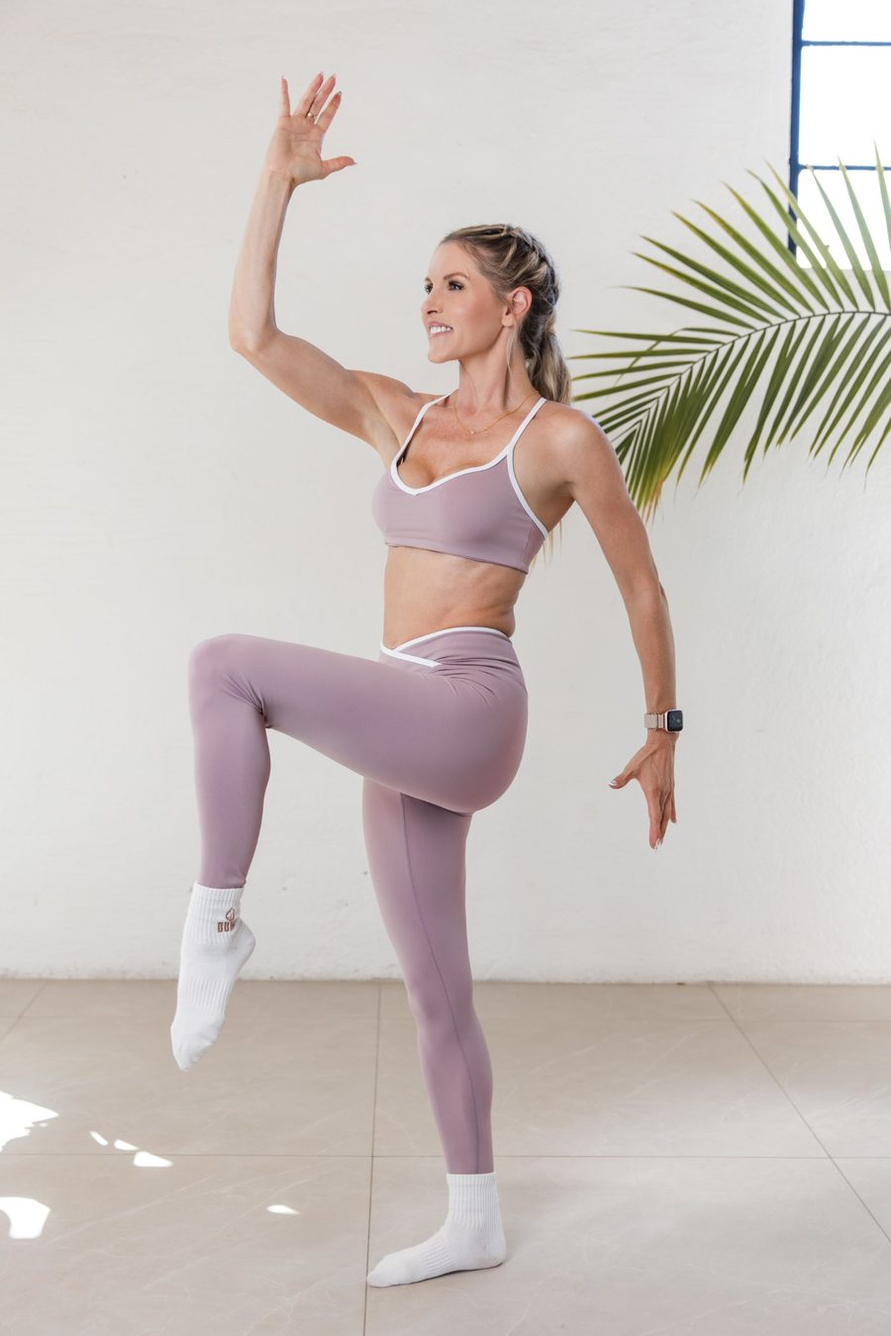
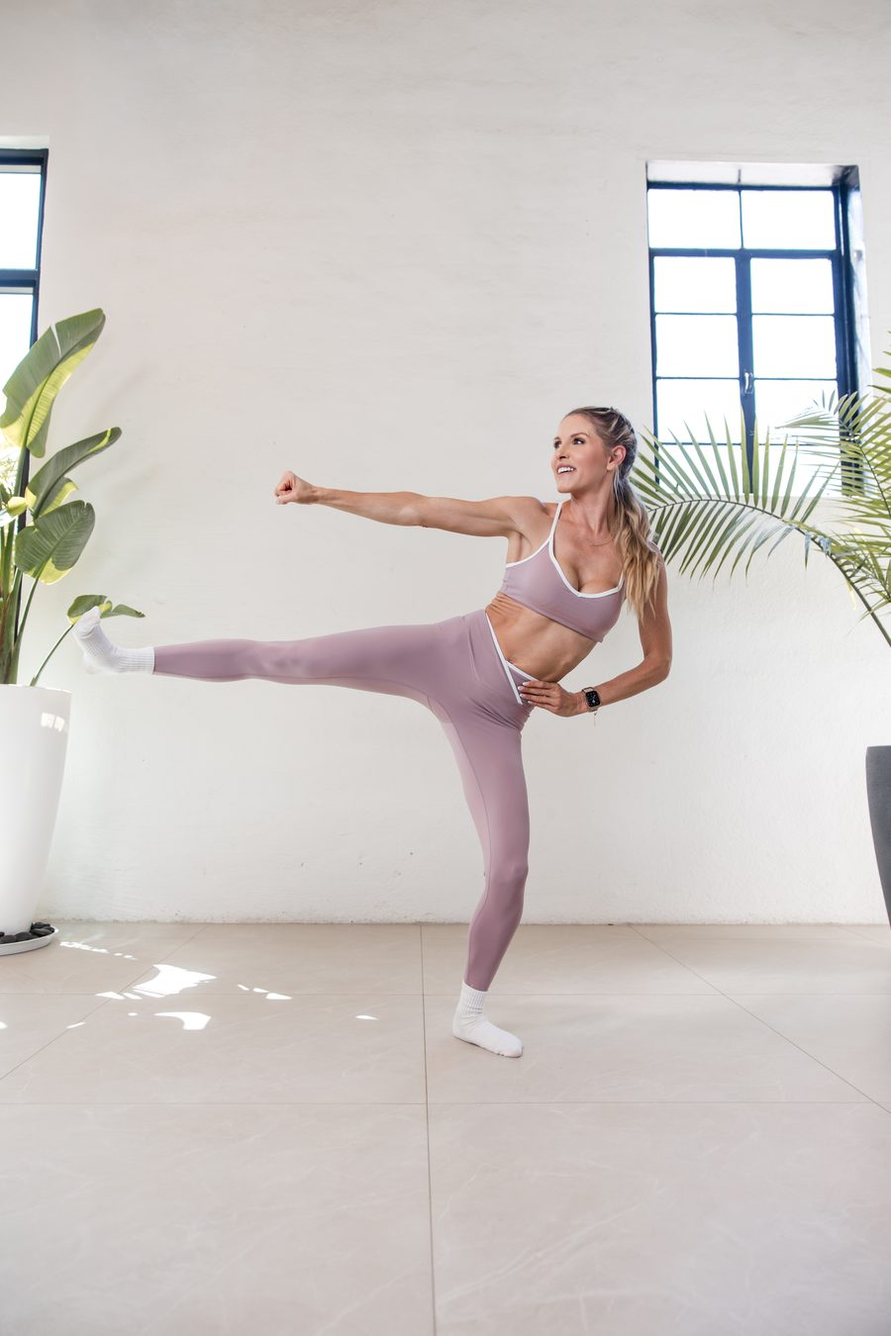
BRN-058 v6: Rebecca's new photos on the site - Hero A IMG_5963, Move IMG_6046 (kick), Meet 1 IMG_5839, Meet 2 IMG_6173; Hero B page (IMG_5881)
Photos only: same filenames and responsive widths, downscaled crops of the Canon originals (never upscaled),
face-safe at 1280 and 390. Alt text updated; ?v=7 on those image URLs so phones don't show cached old ones.
index-hero-b.html = index.html with the hero swapped to img/hero-b/ (IMG_5881) so she can compare.
Previous version kept on branch backup/v6-before-her-photos-20261015 (270ef74).

diff --git a/v6/index-hero-b.html b/v6/index-hero-b.html
@@ -1,0 +1,214 @@
+<!doctype html>
+<html lang="en">
+<head>
+<meta charset="utf-8">
+<meta name="viewport" content="width=device-width,initial-scale=1">
+<meta name="robots" content="noindex,nofollow">
+<title>Your Strongest Self Starts Here | BURN by Rebecca Louise</title>
+<meta name="description" content="Train with Rebecca Louise. Follow-along workouts, monthly challenges, recipes and mindset in one app.">
+<link rel="preconnect" href="https://fonts.googleapis.com"><link rel="preconnect" href="https://fonts.gstatic.com" crossorigin><link href="https://fonts.googleapis.com/css2?family=Cormorant+Garamond:ital,wght@0,500;0,600;1,500&family=Inter:wght@300;400;500;600&display=swap" rel="stylesheet">
+<link rel="stylesheet" href="assets/site.css?v=61">
+</head>
+<body data-page="home">
+<div class="preview-bar"><span>Design preview.</span><a href="journey.html">Preview the journey: Join Now → pay → welcome → app</a></div>
+<header class="site">
+  <div class="wrap">
+    <a class="logo" href="index.html" aria-label="BURN by Rebecca Louise, home"><img src="img/burn-logo.png" alt="BURN by Rebecca Louise" height="22"></a>
+    <nav class="main" aria-label="Main"><a href="index.html" class="on" aria-current="page">Home</a><a href="workouts.html">Workouts</a><a href="membership.html">Memberships</a><a href="about.html">About</a></nav>
+    <div class="hdr-right">
+      <a class="member-link top" href="download.html">Already a member? Open the app</a>
+      <a class="btn sm" href="join.html" data-chooser data-join="nav">Join Now</a>
+      <button class="burger" aria-label="Menu" aria-expanded="false"><span></span></button>
+    </div>
+  </div>
+  <div class="mnav"><a href="index.html" class="on" aria-current="page">Home</a><a href="workouts.html">Workouts</a><a href="membership.html">Memberships</a><a href="about.html">About</a><a class="member-link" href="download.html">Already a member? Open the app</a></div>
+</header>
+<main>
+<!-- 1 HERO: Rebecca (purple set) first -->
+<section class="hero" id="top" aria-label="BURN by Rebecca Louise">
+  <picture><source media="(max-width:640px)" srcset="img/hero-b/m-800.jpg?v=7 800w, img/hero-b/m-1200.jpg?v=7 1200w, img/hero-b/m-1800.jpg?v=7 1800w" sizes="100vw"><img class="hero-img" src="img/hero-b/d-1200.jpg?v=7" srcset="img/hero-b/d-1200.jpg?v=7 1200w, img/hero-b/d-1800.jpg?v=7 1800w, img/hero-b/d-2400.jpg?v=7 2400w" sizes="(max-width:900px) 64vw, 62vw" alt="Rebecca Louise in her purple set, kneeling and smiling with her phone in her hand" fetchpriority="high"></picture>
+  <div class="wrap"><div class="copy">
+    <div class="kick">BURN by Rebecca Louise</div>
+    <h1>Your Strongest Self Starts Here.</h1>
+    <p class="lede">Train with me in one app: follow-along workouts, a new challenge every month, recipes and mindset. Feel stronger, build confidence and make it last.</p>
+    <div class="ctas"><a class="btn" href="join.html" data-chooser data-join="hero" data-sticky-after>Join Now</a><span class="sub-cta"><span data-from>From $7.99 a month</span> &middot; cancel any time</span></div>
+    <button type="button" class="quiz-link" data-quiz-open="hero">Not sure? Take the 30-second quiz &rarr;</button>
+    <div class="proof"><span>Real workouts with Rebecca</span><span>A new challenge every month</span><span>A community that shows up</span></div>
+  </div></div>
+</section>
+
+<!-- 2 INSIDE THE APP (real iPhone screenshots) + BUILD & SCHEDULE -->
+<section class="appstrip" id="inside">
+  <div class="wrap">
+    <div class="sec-head"><div class="kick">Inside the BURN app</div><h2>Your training, in one app</h2></div>
+    <div class="screens"><figure class="screen"><div class="device"><div class="iphone"><span class="hw l1"></span><span class="hw l2"></span><span class="hw l3"></span><span class="hw r1"></span><img loading="lazy" src="img/app/move.jpg" alt="BURN app Move screen on iPhone" width="900" height="1957"></div></div><figcaption><b>Move</b><span>The full library by body part, style and equipment</span></figcaption></figure><figure class="screen"><div class="device"><div class="iphone"><span class="hw l1"></span><span class="hw l2"></span><span class="hw l3"></span><span class="hw r1"></span><img loading="lazy" src="img/app/calendar.jpg" alt="BURN app Your challenge screen on iPhone" width="900" height="1957"></div></div><figcaption><b>Your challenge</b><span>Your month, ticked off day by day</span></figcaption></figure><figure class="screen"><div class="device"><div class="iphone"><span class="hw l1"></span><span class="hw l2"></span><span class="hw l3"></span><span class="hw r1"></span><img loading="lazy" src="img/app/nourish.jpg" alt="BURN app Nourish screen on iPhone" width="900" height="1957"></div></div><figcaption><b>Nourish</b><span>Recipes with diet filters</span></figcaption></figure><figure class="screen"><div class="device"><div class="iphone"><span class="hw l1"></span><span class="hw l2"></span><span class="hw l3"></span><span class="hw r1"></span><img loading="lazy" src="img/app/progress.jpg" alt="BURN app Progress screen on iPhone" width="900" height="1957"></div></div><figcaption><b>Progress</b><span>Your streak, week by week</span></figcaption></figure></div>
+    <div class="planbox" data-planner id="build-your-week">
+      <div>
+        <div class="kick">BURN+ &middot; Build &amp; schedule</div>
+        <h2>Build your workout. Schedule your week.</h2>
+        <p class="lede">Put your own workout together from the library, pick the day and time that suit you, or join a live class instead. Try it:</p>
+      </div>
+      <div>
+        <div class="steps3">
+          <div class="step"><h3>1 &middot; Build your workout</h3><p class="muted step-sub">Pick one or more from the library</p><div class="opts"><button type="button" class="chip on" data-pw data-min="30" aria-pressed="true">Ultimate Lift Heavy <small>30 min</small></button><button type="button" class="chip" data-pw data-min="34" aria-pressed="false">Barre Definition <small>34 min</small></button><button type="button" class="chip" data-pw data-min="32" aria-pressed="false">Full Body Pilates Tone <small>32 min</small></button><button type="button" class="chip" data-pw data-min="36" aria-pressed="false">Best HIIT <small>36 min</small></button><button type="button" class="chip" data-pw data-min="30" aria-pressed="false">Weighted Core Strength <small>30 min</small></button><button type="button" class="chip" data-pw data-min="28" aria-pressed="false">Beautiful State <small>28 min</small></button></div></div>
+          <div class="step"><h3>2 &middot; Pick a day</h3><div class="days"><button type="button" class="chip" data-day="Monday" aria-pressed="false" aria-label="Monday">M</button><button type="button" class="chip" data-day="Tuesday" aria-pressed="false" aria-label="Tuesday">T</button><button type="button" class="chip on" data-day="Wednesday" aria-pressed="true" aria-label="Wednesday">W</button><button type="button" class="chip" data-day="Thursday" aria-pressed="false" aria-label="Thursday">T</button><button type="button" class="chip" data-day="Friday" aria-pressed="false" aria-label="Friday">F</button><button type="button" class="chip" data-day="Saturday" aria-pressed="false" aria-label="Saturday">S</button><button type="button" class="chip" data-day="Sunday" aria-pressed="false" aria-label="Sunday">S</button></div></div>
+          <div class="step"><h3>3 &middot; Pick a time, or join a class</h3><div class="opts"><button type="button" class="chip on" data-time="7:00 am" aria-pressed="true">7:00 am</button><button type="button" class="chip" data-time="12:30 pm" aria-pressed="false">12:30 pm</button><button type="button" class="chip" data-time="6:00 pm" aria-pressed="false">6:00 pm</button><button type="button" class="chip" data-time="class" aria-pressed="false">Join a live class</button></div></div>
+        </div>
+        <div class="plan-out"><div><div class="s">Your week</div><div class="t" data-plan-out aria-live="polite">Wednesday &middot; 7:00 am &middot; Ultimate Lift Heavy &middot; 30 min</div></div><a class="btn" href="join.html?tier=burnplus" data-checkout data-join="build_week" data-tier="burnplus">Join BURN+</a></div>
+      </div>
+    </div>
+  </div>
+</section>
+
+<!-- 3 WHY BURN + MOVE NOURISH THRIVE -->
+<section class="bg-white" id="why">
+  <div class="wrap">
+    <div class="sec-head"><div class="kick">More than a workout app</div><h2>Why BURN? Move. Nourish. Thrive.</h2></div>
+    <div class="pillars">
+      <div class="pillar"><img loading="lazy" src="img/p/move-900.jpg?v=7" srcset="img/p/move-900.jpg?v=7 900w, img/p/move-1400.jpg?v=7 1400w" sizes="(max-width:900px) 100vw, 33vw" alt="Rebecca in her purple set mid-kick, one leg extended to the side" style="object-position:50% 22%"><div class="in"><h3>MOVE</h3><p>Strength, sculpt, Pilates, barre and cardio with me. 40+ programs and a new challenge every month.</p><div class="tierchips"><span>Every membership</span></div></div></div>
+      <div class="pillar"><img loading="lazy" src="img/p/nourish-800.jpg" srcset="img/p/nourish-800.jpg 800w, img/p/nourish-1200.jpg 1200w" sizes="(max-width:900px) 100vw, 33vw" alt="A bowl of greens, boiled eggs, sweetcorn, tomatoes and red cabbage" style="object-position:50% 50%"><div class="in"><h3>NOURISH</h3><p>Recipes with diet filters in every membership. Want your own plan? Add one, built with a coach.</p><div class="tierchips"><span>Recipes: every membership</span><a href="#nutrition">Nutrition plan: add-on</a></div></div></div>
+      <div class="pillar"><img loading="lazy" src="img/p/thrive-800.jpg" srcset="img/p/thrive-800.jpg 800w, img/p/thrive-1200.jpg 1200w" sizes="(max-width:900px) 100vw, 33vw" alt="A woman meditating cross-legged at sunrise" style="object-position:50% 60%"><div class="in"><h3>THRIVE</h3><p>Mindset for the days motivation dips: the Thrive library, the daily quote and the community. BURN+ adds the Daily Read and your gratitude journal.</p><div class="tierchips"><span>Every membership</span><span>More in BURN+</span></div></div></div>
+    </div>
+    <div class="whys">
+      <div><b>Workouts that fit your life</b><span>Filter by your time, level and the equipment you have.</span></div>
+      <div><b>Guidance beyond the workout</b><span>Recipes and mindset sit right next to your training.</span></div>
+      <div><b>Progress you can see</b><span>Your streak and challenge days, counted for you.</span></div>
+      <div><b>A community that supports you</b><span>Share your wins with women doing the same challenge.</span></div>
+    </div>
+  </div>
+</section>
+
+<!-- 4 FIND YOUR PERFECT WORKOUT + MONTHLY CHALLENGES -->
+<section class="bg-cream" id="workouts">
+  <div class="wrap">
+    <div class="sec-head"><div class="kick">The library</div><h2>Find Your Perfect Workout</h2><p>Search by body part, style, equipment, time and level. The challenge changes every month.</p></div>
+    <div class="disco" data-filter-group data-target="#home-grid" role="group" aria-label="Filter workouts">
+      <button type="button" class="on" data-f="all" aria-pressed="true">All</button><button type="button" data-f="body" aria-pressed="false">Body part</button><button type="button" data-f="style" aria-pressed="false">Style</button><button type="button" data-f="equip" aria-pressed="false">Equipment</button>
+    </div>
+    <div class="wgrid" id="home-grid"><div class="wcard" data-tags="body"><div class="im"><img loading="lazy" src="img/w/full-body.jpg" alt="Rebecca standing tall in her purple set"></div><div class="b"><h4>Full Body</h4><div class="meta">By body part</div></div></div><div class="wcard" data-tags="body"><div class="im"><img loading="lazy" src="img/w/legs.jpg" alt="Rebecca balancing on one leg against a white brick wall"></div><div class="b"><h4>Legs</h4><div class="meta">By body part</div></div></div><div class="wcard" data-tags="body"><div class="im"><img loading="lazy" src="img/w/arms.jpg" alt="Rebecca flexing both arms"></div><div class="b"><h4>Arms</h4><div class="meta">By body part</div></div></div><div class="wcard" data-tags="body"><div class="im"><img loading="lazy" src="img/w/core.jpg" alt="Close-up of Rebecca&rsquo;s core in her purple set"></div><div class="b"><h4>Core</h4><div class="meta">By body part</div></div></div><div class="wcard" data-tags="style"><div class="im"><img loading="lazy" src="img/w/strength.jpg" alt="Rebecca squatting with dumbbells"></div><div class="b"><h4>Strength</h4><div class="meta">By style</div></div></div><div class="wcard" data-tags="style"><div class="im"><img loading="lazy" src="img/w/pilates.jpg" alt="Rebecca in a Pilates V-sit on the studio floor"></div><div class="b"><h4>Pilates</h4><div class="meta">By style</div></div></div><div class="wcard" data-tags="equip"><div class="im"><img loading="lazy" src="img/w/weights.jpg" alt="Rebecca pressing two dumbbells overhead"></div><div class="b"><h4>Weights</h4><div class="meta">By equipment</div></div></div><div class="wcard" data-tags="equip"><div class="im"><img loading="lazy" src="img/w/no-equipment.jpg" alt="Rebecca standing with hands on hips"></div><div class="b"><h4>No Equipment</h4><div class="meta">By equipment</div></div></div></div>
+    <p style="text-align:center;margin-top:26px"><a class="btn ghost" href="workouts.html">See all workouts</a></p>
+    <div class="chall" id="challenges">
+      <div><div class="kick">Monthly challenges</div><h3>A new challenge every month</h3><p class="lede" style="font-size:16px;margin-bottom:20px">A plan for every day, a calendar to tick off and a guide to download. Start on the 1st with everyone else.</p>
+        <div class="ccards"><div class="ccard"><div class="k">This month</div><h4>Sweat or Treat</h4><p>30 days, four themed weeks and one workout a day, with a finish line on Halloween.</p></div><div class="ccard"><div class="k">Monthly challenge</div><h4>Reset &amp; Rise</h4><p>A 21-day full-body reset to build momentum.</p></div><div class="ccard"><div class="k">Monthly challenge</div><h4>Tone &amp; Transform</h4><p>A plan for every day and a calendar to tick off.</p></div></div></div>
+      <div class="chall-phone"><div class="device"><div class="iphone"><span class="hw l1"></span><span class="hw l2"></span><span class="hw l3"></span><span class="hw r1"></span><img loading="lazy" src="img/app/calendar.jpg" alt="BURN app challenge calendar for October, with completed days ticked" width="900" height="1957"></div></div></div>
+    </div>
+  </div>
+</section>
+
+<!-- 5 REAL RESULTS -->
+<section id="results">
+  <div class="wrap">
+    <div class="sec-head"><div class="kick">Member stories</div><h2>Real Women. Real Results.</h2><p>In their own words, from App Store reviews of the BURN app.</p></div>
+    <div class="tgrid"><article class="tcard tag-result"><div class="stars" aria-label="5 stars">&#9733;&#9733;&#9733;&#9733;&#9733;</div><h4>Get the Membership!</h4><blockquote>&ldquo;Rebecca Louise helps transform your body, nutrition and mindset. &hellip; I&rsquo;ve been following BURN for ten months and have lost 86 pounds.&rdquo;</blockquote><div class="who"><span>Chippewa214</span><span>App Store review</span></div></article><article class="tcard tag-result"><div class="stars" aria-label="5 stars">&#9733;&#9733;&#9733;&#9733;&#9733;</div><h4>Get The Results You Are Looking For!!</h4><blockquote>&ldquo;I had been following Rebecca Louise&rsquo;s workouts for two years before joining the Burn App and that is when the difference was made. The Burn App provides structure&hellip;&rdquo;</blockquote><div class="who"><span>Ch.El.Sa</span><span>App Store review</span></div></article><article class="tcard "><div class="stars" aria-label="5 stars">&#9733;&#9733;&#9733;&#9733;&#9733;</div><h4>LOVE!</h4><blockquote>&ldquo;I&rsquo;ve been following Rebecca for about 5 years now and never looked back. Before I found her I tried numerous workout apps and none of them could hold my attention long-term.&rdquo;</blockquote><div class="who"><span>Amber B.</span><span>App Store review</span></div></article></div>
+    <div class="tgrid more-reviews" id="more-reviews" hidden><article class="tcard "><div class="stars" aria-label="5 stars">&#9733;&#9733;&#9733;&#9733;&#9733;</div><h4>Best workout app!</h4><blockquote>&ldquo;I love Rebecca Louise&rsquo;s workouts - I&rsquo;ve been doing them for 10 years! &hellip; although there&rsquo;s a lot of content, it&rsquo;s easy to find what you&rsquo;re looking for, and gives you a great daily boost.&rdquo;</blockquote><div class="who"><span>LMCZ1907</span><span>App Store review</span></div></article><article class="tcard "><div class="stars" aria-label="5 stars">&#9733;&#9733;&#9733;&#9733;&#9733;</div><h4>BURN with Rebecca Louise</h4><blockquote>&ldquo;Addicting workouts and energy, her knowledge is beyond fitness, Rebecca has an electric personality that leaves you feeling like you can conquer anything.&rdquo;</blockquote><div class="who"><span>Heather T.</span><span>App Store review</span></div></article><article class="tcard "><div class="stars" aria-label="5 stars">&#9733;&#9733;&#9733;&#9733;&#9733;</div><h4>Best fitness app for women!</h4><blockquote>&ldquo;I love using the BURN by Rebecca Louise app for workouts, nutrition and mindset. I really enjoy her supportive motivating personality&hellip;&rdquo;</blockquote><div class="who"><span>musiclover24345</span><span>App Store review</span></div></article></div>
+    <div class="reviews-toggle"><button type="button" class="btn ghost" data-more-reviews aria-controls="more-reviews" aria-expanded="false">Read more reviews</button></div>
+  </div>
+</section>
+
+<!-- 6 MEET REBECCA -->
+<section class="bg-cream" id="meet">
+  <div class="wrap meet">
+    <div class="photos">
+      <div class="a"><img loading="lazy" src="img/rl/meet-a-800.jpg?v=7" srcset="img/rl/meet-a-800.jpg?v=7 800w, img/rl/meet-a-1200.jpg?v=7 1200w, img/rl/meet-a-1600.jpg?v=7 1600w" sizes="(max-width:900px) 72vw, 32vw" alt="Rebecca Louise in her purple set, smiling as she leans against a white brick wall" style="object-position:50% 20%"></div>
+      <div class="b"><img loading="lazy" src="img/rl/meet-b-600.jpg?v=7" srcset="img/rl/meet-b-600.jpg?v=7 600w, img/rl/meet-b-1000.jpg?v=7 1000w, img/rl/meet-b-1400.jpg?v=7 1400w" sizes="(max-width:900px) 46vw, 22vw" alt="Rebecca Louise in her purple set, sitting on her mat with her phone, smiling" style="object-position:50% 25%"></div>
+    </div>
+    <div>
+      <div class="kick">Grit, not perfection</div>
+      <h2 style="margin:10px 0 16px">Meet Rebecca</h2>
+      <p class="lede">I caught the fitness bug in 2013, helped my mum get healthy, and started my YouTube channel in 2014. I&rsquo;ve posted every week since. I built BURN in 2018 so you could train with me any day, anywhere, with a plan that keeps you going.</p>
+      <div class="facts">
+        <div class="fact"><b>Everest</b><span>Summited in 2022</span></div>
+        <div class="fact"><b>10+ years</b><span>in the fitness industry</span></div>
+        <div class="fact"><b>&frac12; billion</b><span>YouTube views</span></div>
+        <div class="fact"><b>It Takes Grit</b><span>Author and podcast host</span></div>
+      </div>
+      <a class="link" href="about.html">Read my story</a>
+    </div>
+  </div>
+</section>
+
+<!-- 7 MEMBERSHIP -->
+<section id="pricing" data-pricing data-sticky-hide>
+  <div class="wrap">
+    <div class="sec-head"><div class="kick">Memberships</div><h2>Choose Your Membership</h2><p>Monthly or annual. Upgrade, downgrade or cancel any time.</p></div>
+    <div class="quizband"><div><h3>Not sure which membership?</h3><p>Five quick taps and we&rsquo;ll match you to the right one.</p></div>
+  <button type="button" class="btn" data-quiz-open="pricing">Take the 30-second quiz</button></div>
+    <div class="billing" role="group" aria-label="Billing period"><button type="button" data-bill="monthly" aria-pressed="true" class="on">Monthly</button><button type="button" data-bill="annual" aria-pressed="false">Annual<span class="sv">Save up to 33%</span></button></div>
+<div class="tiers" id="tiers">
+  <article class="tier" aria-label="BURN">
+    
+    <div class="tn">BURN</div>
+    <div class="price"><span class="amt" data-amt="burn">$7.99</span><span class="per" data-per>/ month</span><span class="save" data-save="burn" hidden>Save 12%</span></div>
+    <div class="alt" data-alt="burn">or $7.00 / month billed yearly (save 12%)</div>
+    <p class="desc">Workouts, challenges, recipes and the BURN community.</p>
+    <a class="btn ghost block" href="join.html?tier=burn" data-checkout data-join="tier" data-tier="burn">Join BURN</a>
+    <div class="secure">Secure checkout &middot; cancel any time</div>
+    <ul><li><span>Favourites <span class="tag new">New</span><small>Save the workouts you love</small></span></li><li><span>Community chat <span class="tag new">New</span><small>Post, share and cheer each other on</small></span></li><li><span>Monthly challenges<small>A new challenge and calendar every month</small></span></li><li><span>40+ workout programs</span></li><li><span>Recipes<small>With diet filters</small></span></li><li><span>Thrive library<small>Mindset and meditation</small></span></li><li><span>Step tracking</span></li><li><span>Monthly guides<small>To download</small></span></li><li><span>Search &amp; filter<small>By body part, equipment, time and style</small></span></li><li><span>Daily quote <span class="tag new">New</span></span></li><li><span>Progress photos <span class="tag new">New</span></span></li></ul>
+  </article>
+  <article class="tier" aria-label="BURN+">
+    
+    <div class="tn">BURN+</div>
+    <div class="price"><span class="amt" data-amt="burnplus">$17.99</span><span class="per" data-per>/ month</span><span class="save" data-save="burnplus" hidden>Save 22%</span></div>
+    <div class="alt" data-alt="burnplus">or $14.00 / month billed yearly (save 22%)</div>
+    <p class="desc">Everything in BURN, plus build your own workouts, schedule your week and your daily practice.</p>
+    <a class="btn ghost block" href="join.html?tier=burnplus" data-checkout data-join="tier" data-tier="burnplus">Join BURN+</a>
+    <div class="secure">Secure checkout &middot; cancel any time</div>
+    <ul><li class="inc">Everything in BURN, plus:</li><li><span>Your own playlists<small>Build your own workout from the library</small></span></li><li><span>Daily Read</span></li><li><span>Activity tracking stats</span></li><li><span>Progress &amp; achievements</span></li><li><span>Cycle-aware training</span></li><li><span>Schedule your workout &amp; join a live class</span></li><li><span>Gratitude journal<small>A daily prompt and everything you have written</small></span></li></ul>
+  </article>
+  <article class="tier feat" aria-label="BURN COMPLETE">
+    <div class="flag">Most personalised</div>
+    <div class="tn">BURN COMPLETE</div>
+    <div class="price"><span class="amt" data-amt="burncomplete">$27.99</span><span class="per" data-per>/ month</span><span class="save" data-save="burncomplete" hidden>Save 33%</span></div>
+    <div class="alt" data-alt="burncomplete">or $18.75 / month billed yearly (save 33%)</div>
+    <p class="desc">Your most personalised BURN experience.</p>
+    <a class="btn block" href="join.html?tier=burncomplete" data-checkout data-join="tier" data-tier="burncomplete">Join BURN COMPLETE</a>
+    <div class="secure">Secure checkout &middot; cancel any time</div>
+    <ul><li class="inc">Everything in BURN+, plus:</li><li><span>My BURN plan<small>Your personalised plan, and you can adjust it</small></span></li><li><span>AI support chat</span></li><li><span>Points for the store</span></li><li><span>Luna Bloom pregnancy &amp; postpartum<small>All of Rebecca&rsquo;s pregnancy and postpartum programs</small></span></li><li><span>Every new feature first</span></li></ul>
+  </article>
+</div>
+    <p class="members-new"><b>Already a BURN member?</b> New for BURN members: favourites, community chat, daily quote and progress photos.</p>
+    <div class="addon" id="nutrition">
+  <div class="ico" aria-hidden="true"><svg viewBox="0 0 24 24"><path d="M5 19c0-8 5-13 14-14 0 9-5 14-13 14"/><path d="M5 19l7-7"/></svg></div>
+  <div><div class="kick">Add-on</div><h3 style="margin-top:4px">Nutrition</h3><p>Your own nutrition plan, built with a coach. Add it to any membership.</p></div>
+  <a class="btn ghost" href="mailto:customerservice@rebecca-louise.com?subject=BURN%20nutrition%20add-on">Ask about nutrition</a>
+</div>
+    <p class="legend"><span class="tag new">New</span> just added to BURN</p>
+    <p class="compare-link"><a class="link" href="membership.html#compare">Compare exactly what&rsquo;s included</a></p>
+  </div>
+</section>
+
+<!-- 8 FAQ -->
+<section class="bg-white faq" id="faq">
+  <div class="wrap narrow">
+    <div class="sec-head"><div class="kick">FAQ</div><h2>Frequently Asked Questions</h2></div>
+    <details><summary>I&rsquo;m a beginner. Is BURN for me?</summary><p>Yes. Every workout is marked Beginner, Intermediate or Advanced, so you can filter to your level and build from there. Each monthly challenge gives you a plan for every day, so you never have to guess what to do next.</p></details><details><summary>Do I need equipment?</summary><p>No. Plenty of workouts need nothing at all, and you can filter for no equipment. If you have dumbbells, bands or ankle weights, there are workouts built around those too.</p></details><details><summary>What&rsquo;s the difference between BURN, BURN+ and BURN COMPLETE?</summary><p>BURN is the core experience: 40+ programs, monthly challenges and guides, recipes, the Thrive library, step tracking, favourites, community chat, the daily quote and progress photos. BURN+ adds the tools to make it yours: build your own workouts with your own playlists, schedule your workout &amp; join a live class, the Daily Read, your gratitude journal, activity stats, progress &amp; achievements and cycle-aware training. BURN COMPLETE is your most personalised BURN experience: My BURN plan, AI support chat, points for the store, Rebecca&rsquo;s Luna Bloom pregnancy &amp; postpartum programs and every new feature first. <a class="link" href="membership.html#compare">See the full comparison</a>.</p></details><details><summary>Can I build my own workouts and plan my week?</summary><p>Yes, with BURN+ and BURN COMPLETE. Put your own workouts together from the library, schedule them on the days and times that suit you, or join a live class. <a class="link" href="index.html#build-your-week">Try it</a>.</p></details><details><summary>Is nutrition included?</summary><p>Every membership includes recipes with diet filters. Your own nutrition plan, built with a coach, is a separate add-on you can add to any membership. <a class="link" href="membership.html#nutrition">About the nutrition add-on</a>.</p></details><details><summary>Where are the pregnancy and postpartum workouts?</summary><p>Rebecca&rsquo;s Luna Bloom pregnancy &amp; postpartum programs are part of BURN COMPLETE. Set your life stage in the app and it shows you the right week or month.</p></details><details><summary>Monthly or annual, and can I cancel any time?</summary><p>Choose monthly, or pay once a year and save up to 33%. Annual works out at $7.00 a month for BURN (billed $83.99 yearly), $14.00 a month for BURN+ (billed $167.99 yearly) and $18.75 a month for BURN COMPLETE (billed $224.99 yearly). You can cancel whenever you like and keep access until the end of the month or year you&rsquo;ve paid for.</p></details><details><summary>Which devices does BURN work on?</summary><p>BURN is an app for iPhone and Android. Join here, download the app and sign in with the same email and password.</p></details><details><summary>I&rsquo;m already a BURN member. Do I need to join again?</summary><p>No. You keep the price you signed up at. Download the BURN app and sign in with the email you joined with. New for BURN members: favourites, community chat, daily quote and progress photos.</p></details>
+  </div>
+</section>
+
+<!-- 9 FINAL CTA -->
+<section class="final" data-sticky-hide>
+  <img loading="lazy" src="img/rl/final-1200.jpg" srcset="img/rl/final-1200.jpg 1200w, img/rl/final-1800.jpg 1800w, img/rl/final-2400.jpg 2400w" sizes="(max-width:640px) 100vw, 50vw" alt="Rebecca Louise in her purple workout set, smiling over her shoulder with her phone">
+  <div class="wrap">
+    <div class="kick">Your strongest self</div>
+    <h2>Ready to Become Your Strongest Self?</h2>
+    <p>Join BURN today and train with me from tomorrow morning.</p>
+    <a class="btn light" href="join.html" data-chooser data-join="final">Join Now</a>
+  </div>
+</section>
+</main>
+<div class="sticky-join"><span class="t"><b>BURN</b> <span data-sticky-from>from $7.99 a month.</span> Cancel any time.</span><a class="btn sm" href="join.html" data-chooser data-join="sticky">Join Now</a></div>
+<footer class="site">
+  <div class="wrap">
+    <div class="cols">
+      <div><a class="logo" href="index.html"><img src="img/burn-logo-footer.png" alt="BURN" height="20"></a>
+        <p style="margin:14px 0 18px;opacity:.8;max-width:320px">Workouts, recipes and mindset with Rebecca Louise, in one app.</p>
+        <div class="stores"><a href="download.html" data-store="ios"><img src="img/app-store-badge.svg" alt="Download on the App Store" width="120" height="40"></a><a href="download.html" data-store="android"><img src="img/google-play-badge.png" alt="Get it on Google Play" width="135" height="40"></a></div></div>
+      <div><h5>Explore</h5><a href="index.html">Home</a><a href="workouts.html">Workouts</a><a href="membership.html">Memberships</a><a href="about.html">About</a><a href="#find-your-burn" data-quiz-open="footer">Find your BURN</a></div>
+      <div><h5>Members</h5><a href="download.html">Already a member? Open the app</a><a href="membership.html#faq">FAQ</a><a href="mailto:customerservice@rebecca-louise.com">customerservice@rebecca-louise.com</a></div>
+    </div>
+    <div class="legal">&copy; 2026 BURN by Rebecca Louise</div>
+  </div>
+</footer>
+<script src="assets/site.js?v=63"></script>
+</body>
+</html>

diff --git a/v6/index.html b/v6/index.html
@@ -26,7 +26,7 @@
 <main>
 <!-- 1 HERO: Rebecca (purple set) first -->
 <section class="hero" id="top" aria-label="BURN by Rebecca Louise">
-  <picture><source media="(max-width:640px)" srcset="img/hero/m-800.jpg 800w, img/hero/m-1200.jpg 1200w, img/hero/m-1800.jpg 1800w" sizes="100vw"><img class="hero-img" src="img/hero/d-1200.jpg" srcset="img/hero/d-1200.jpg 1200w, img/hero/d-1800.jpg 1800w, img/hero/d-2400.jpg 2400w" sizes="(max-width:900px) 64vw, 62vw" alt="Rebecca Louise in her purple set, squatting down with her phone in front of her, scrolling the BURN app" fetchpriority="high"></picture>
+  <picture><source media="(max-width:640px)" srcset="img/hero/m-800.jpg?v=7 800w, img/hero/m-1200.jpg?v=7 1200w, img/hero/m-1800.jpg?v=7 1800w" sizes="100vw"><img class="hero-img" src="img/hero/d-1200.jpg?v=7" srcset="img/hero/d-1200.jpg?v=7 1200w, img/hero/d-1800.jpg?v=7 1800w, img/hero/d-2400.jpg?v=7 2400w" sizes="(max-width:900px) 64vw, 62vw" alt="Rebecca Louise in her purple set, flexing one arm and smiling, full length against a white brick wall" fetchpriority="high"></picture>
   <div class="wrap"><div class="copy">
     <div class="kick">BURN by Rebecca Louise</div>
     <h1>Your Strongest Self Starts Here.</h1>
@@ -65,7 +65,7 @@
   <div class="wrap">
     <div class="sec-head"><div class="kick">More than a workout app</div><h2>Why BURN? Move. Nourish. Thrive.</h2></div>
     <div class="pillars">
-      <div class="pillar"><img loading="lazy" src="img/p/move-900.jpg" srcset="img/p/move-900.jpg 900w, img/p/move-1400.jpg 1400w" sizes="(max-width:900px) 100vw, 33vw" alt="Rebecca in her purple set mid-workout, driving one knee up" style="object-position:50% 22%"><div class="in"><h3>MOVE</h3><p>Strength, sculpt, Pilates, barre and cardio with me. 40+ programs and a new challenge every month.</p><div class="tierchips"><span>Every membership</span></div></div></div>
+      <div class="pillar"><img loading="lazy" src="img/p/move-900.jpg?v=7" srcset="img/p/move-900.jpg?v=7 900w, img/p/move-1400.jpg?v=7 1400w" sizes="(max-width:900px) 100vw, 33vw" alt="Rebecca in her purple set mid-kick, one leg extended to the side" style="object-position:50% 22%"><div class="in"><h3>MOVE</h3><p>Strength, sculpt, Pilates, barre and cardio with me. 40+ programs and a new challenge every month.</p><div class="tierchips"><span>Every membership</span></div></div></div>
       <div class="pillar"><img loading="lazy" src="img/p/nourish-800.jpg" srcset="img/p/nourish-800.jpg 800w, img/p/nourish-1200.jpg 1200w" sizes="(max-width:900px) 100vw, 33vw" alt="A bowl of greens, boiled eggs, sweetcorn, tomatoes and red cabbage" style="object-position:50% 50%"><div class="in"><h3>NOURISH</h3><p>Recipes with diet filters in every membership. Want your own plan? Add one, built with a coach.</p><div class="tierchips"><span>Recipes: every membership</span><a href="#nutrition">Nutrition plan: add-on</a></div></div></div>
       <div class="pillar"><img loading="lazy" src="img/p/thrive-800.jpg" srcset="img/p/thrive-800.jpg 800w, img/p/thrive-1200.jpg 1200w" sizes="(max-width:900px) 100vw, 33vw" alt="A woman meditating cross-legged at sunrise" style="object-position:50% 60%"><div class="in"><h3>THRIVE</h3><p>Mindset for the days motivation dips: the Thrive library, the daily quote and the community. BURN+ adds the Daily Read and your gratitude journal.</p><div class="tierchips"><span>Every membership</span><span>More in BURN+</span></div></div></div>
     </div>
@@ -109,8 +109,8 @@
 <section class="bg-cream" id="meet">
   <div class="wrap meet">
     <div class="photos">
-      <div class="a"><img loading="lazy" src="img/rl/meet-a-800.jpg" srcset="img/rl/meet-a-800.jpg 800w, img/rl/meet-a-1200.jpg 1200w, img/rl/meet-a-1600.jpg 1600w" sizes="(max-width:900px) 72vw, 32vw" alt="Rebecca Louise in her purple set, smiling as she taps through the BURN app on her phone" style="object-position:50% 20%"></div>
-      <div class="b"><img loading="lazy" src="img/rl/meet-b-600.jpg" srcset="img/rl/meet-b-600.jpg 600w, img/rl/meet-b-1000.jpg 1000w, img/rl/meet-b-1400.jpg 1400w" sizes="(max-width:900px) 46vw, 22vw" alt="Rebecca Louise in her purple set, coaching with both hands raised" style="object-position:50% 25%"></div>
+      <div class="a"><img loading="lazy" src="img/rl/meet-a-800.jpg?v=7" srcset="img/rl/meet-a-800.jpg?v=7 800w, img/rl/meet-a-1200.jpg?v=7 1200w, img/rl/meet-a-1600.jpg?v=7 1600w" sizes="(max-width:900px) 72vw, 32vw" alt="Rebecca Louise in her purple set, smiling as she leans against a white brick wall" style="object-position:50% 20%"></div>
+      <div class="b"><img loading="lazy" src="img/rl/meet-b-600.jpg?v=7" srcset="img/rl/meet-b-600.jpg?v=7 600w, img/rl/meet-b-1000.jpg?v=7 1000w, img/rl/meet-b-1400.jpg?v=7 1400w" sizes="(max-width:900px) 46vw, 22vw" alt="Rebecca Louise in her purple set, sitting on her mat with her phone, smiling" style="object-position:50% 25%"></div>
     </div>
     <div>
       <div class="kick">Grit, not perfection</div>
